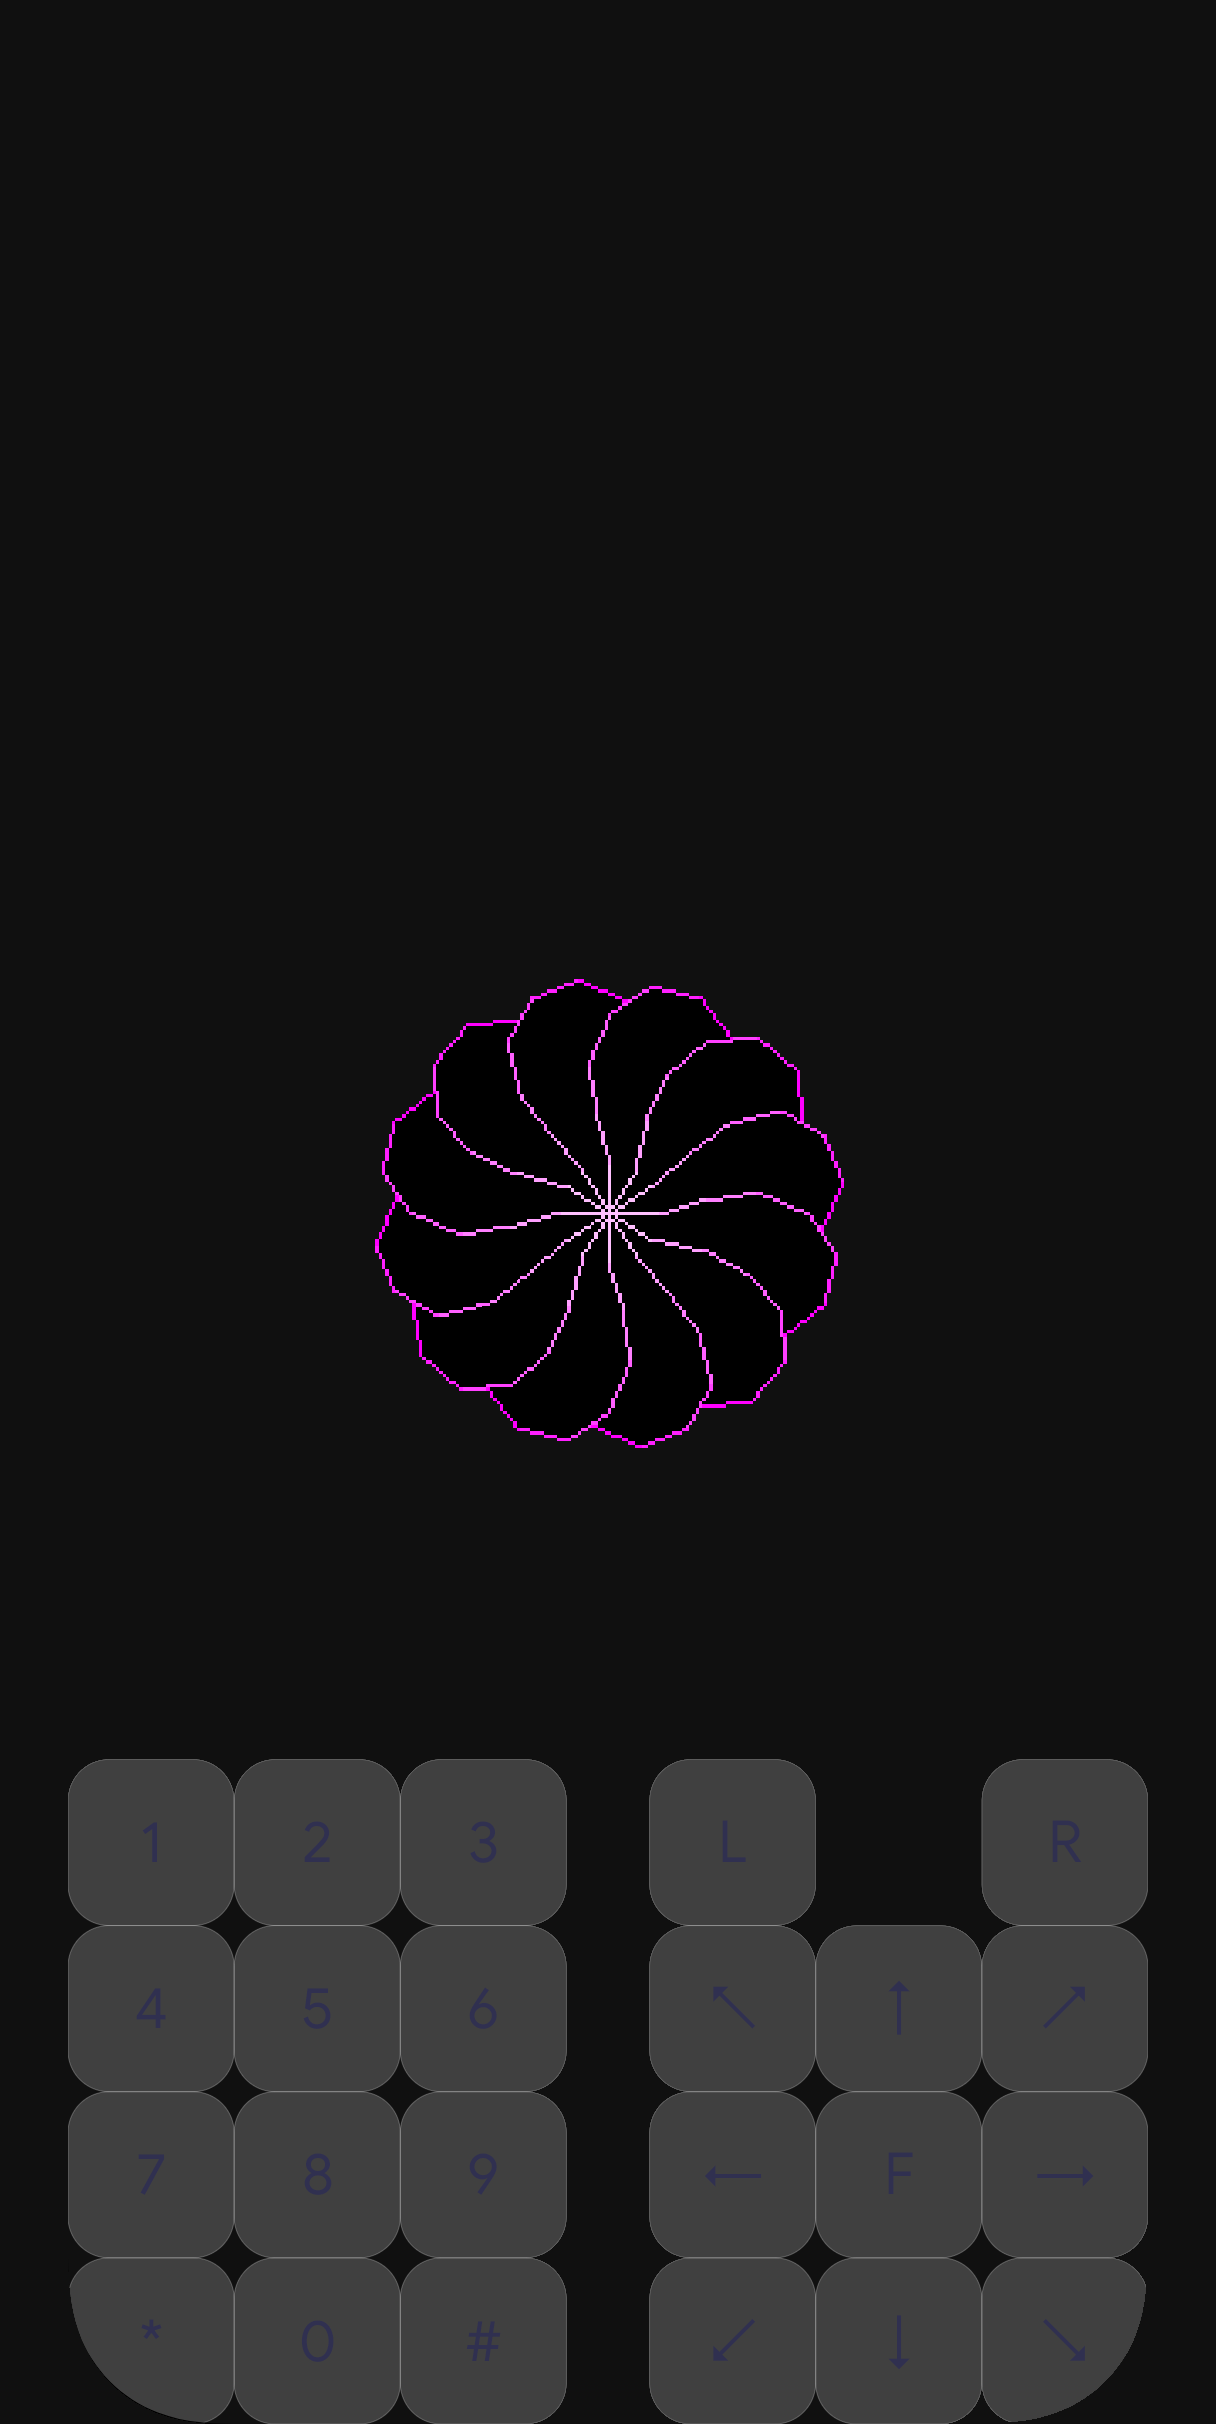
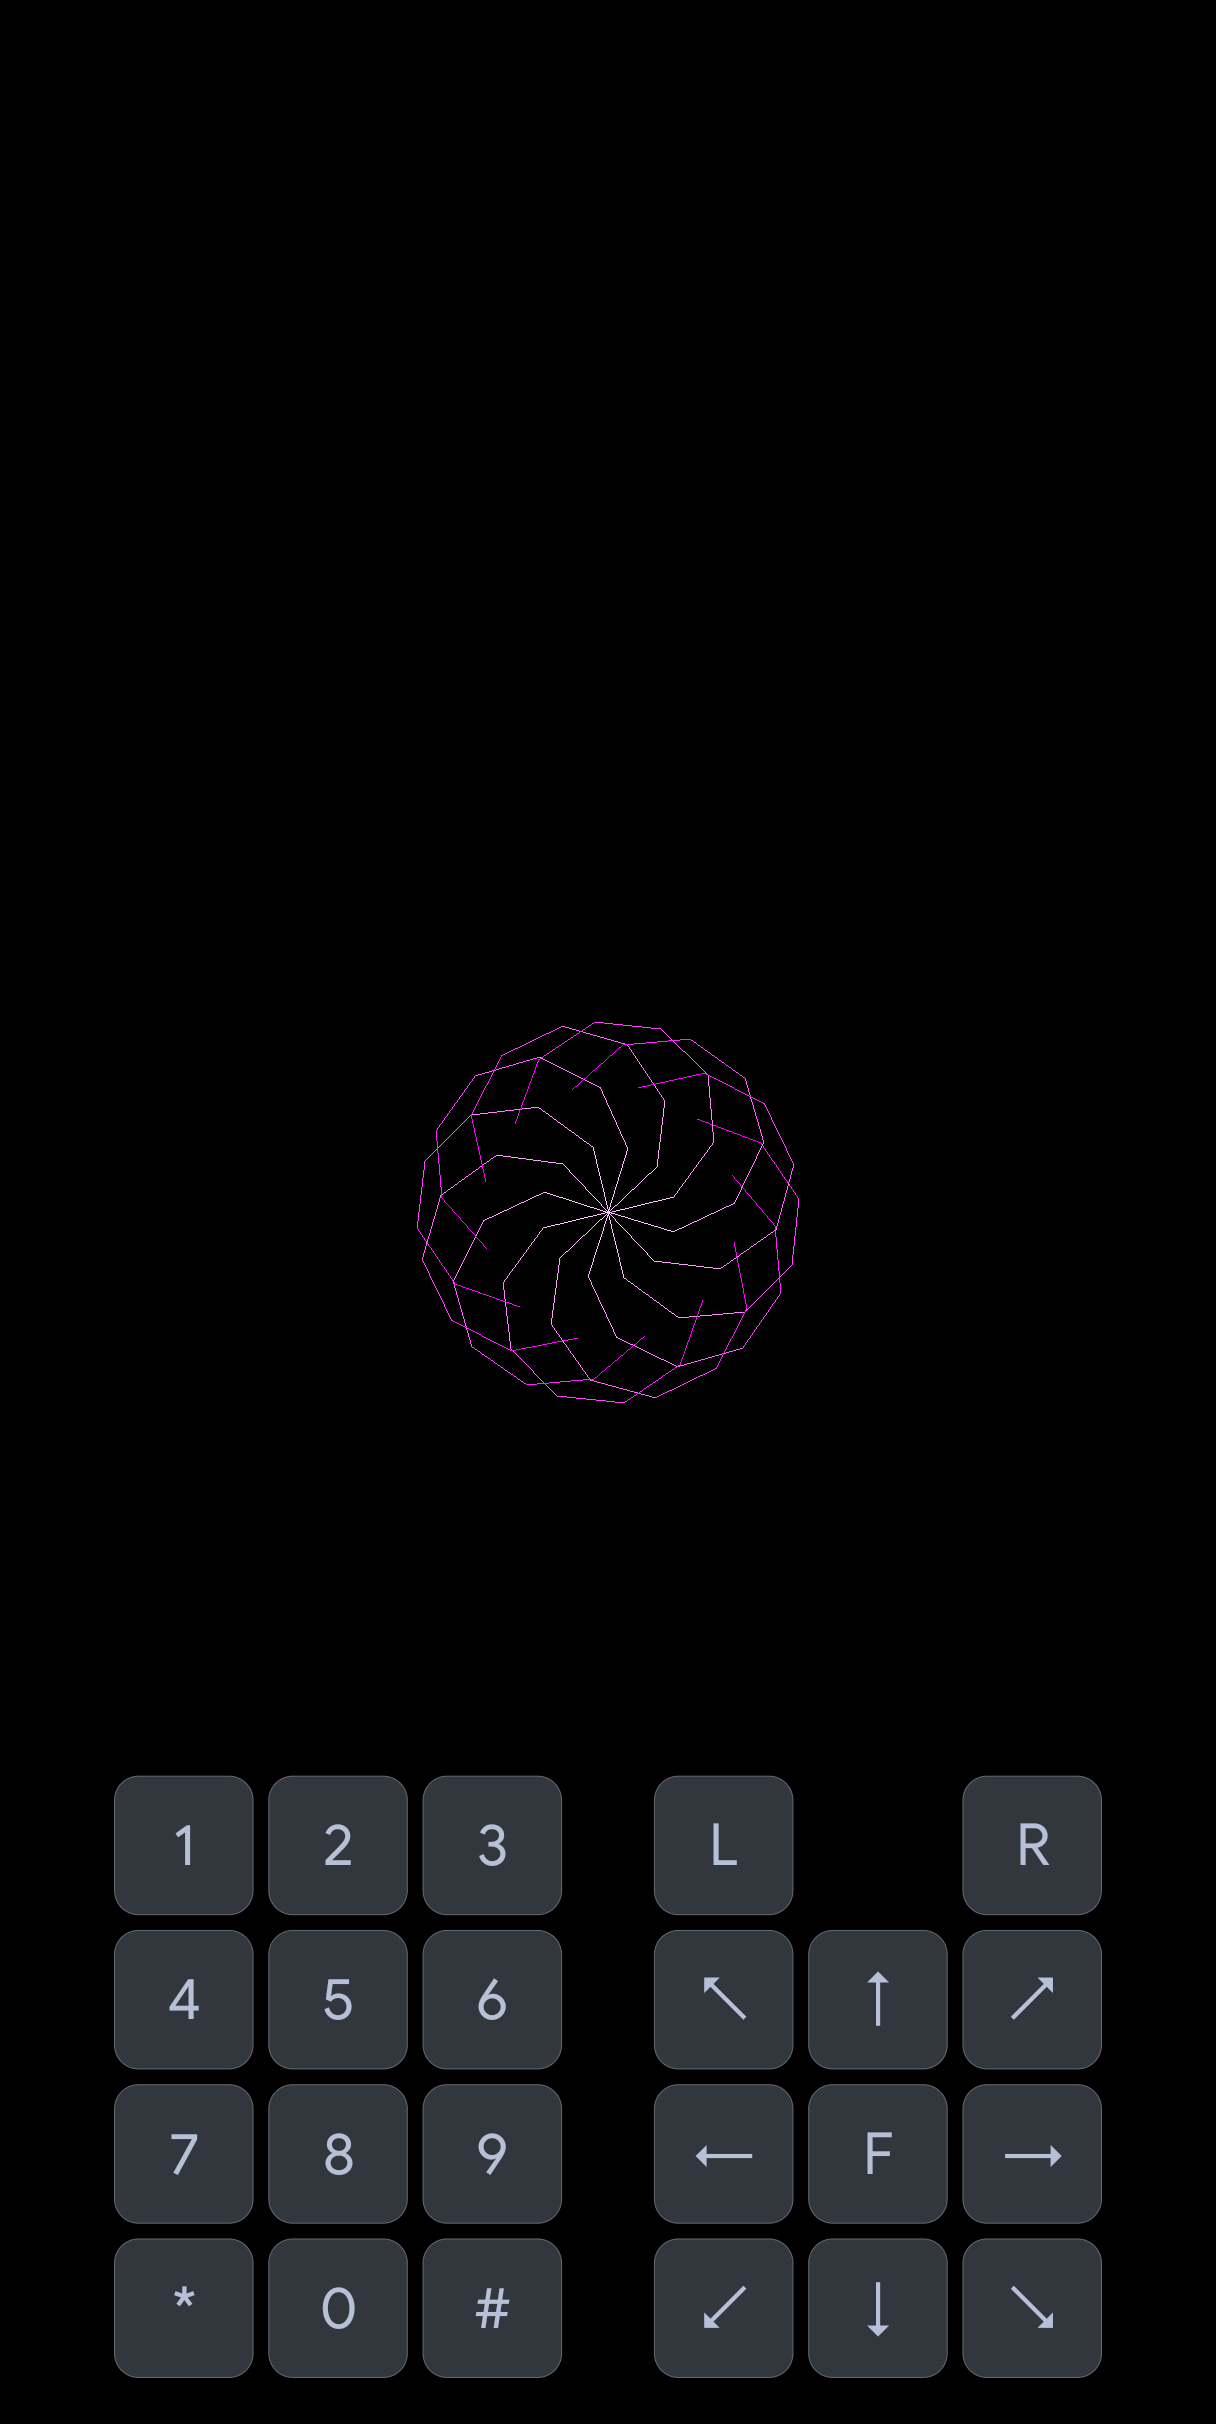
update emulator screenshots

diff --git a/README.md b/README.md
@@ -9,4 +9,4 @@ and run it in the built-in emulator — entirely on-device and offline.
 
 <a href="https://play.google.com/store/apps/details?id=com.github.helltar.anpaside"><img alt="Get it on Google Play" src="https://play.google.com/intl/en_us/badges/static/images/badges/en_badge_web_generic.png" height="75"/></a>
 ---
-<img src="https://helltar.com/projects/anpaside/screenshots/screenshot_editor_20260723_164347.png" width="30%" alt="Pascal code editor"> <img src="https://helltar.com/projects/anpaside/screenshots/screenshot_project_20260723_164423.png" width="30%" alt="Project file tree"> <img src="https://helltar.com/projects/anpaside/screenshots/screenshot_emulator_20260723_164954.png" width="30%" alt="Built-in J2ME emulator">
+<img src="https://helltar.com/projects/anpaside/screenshots/screenshot_editor_20260723_164347.png" width="30%" alt="Pascal code editor"> <img src="https://helltar.com/projects/anpaside/screenshots/screenshot_project_20260723_164423.png" width="30%" alt="Project file tree"> <img src="https://helltar.com/projects/anpaside/screenshots/screenshot_emulator_20260726_002658.png" width="30%" alt="Built-in J2ME emulator">
